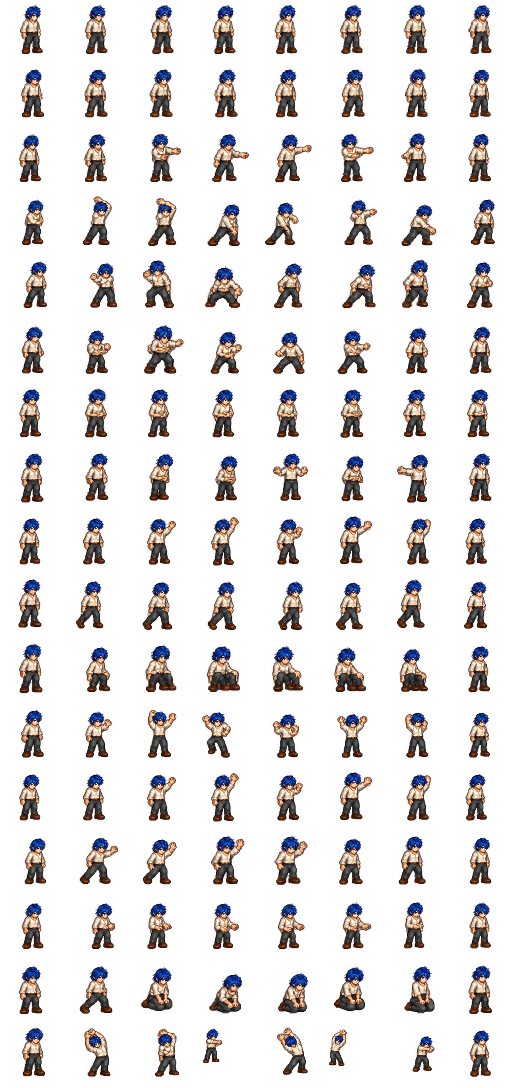
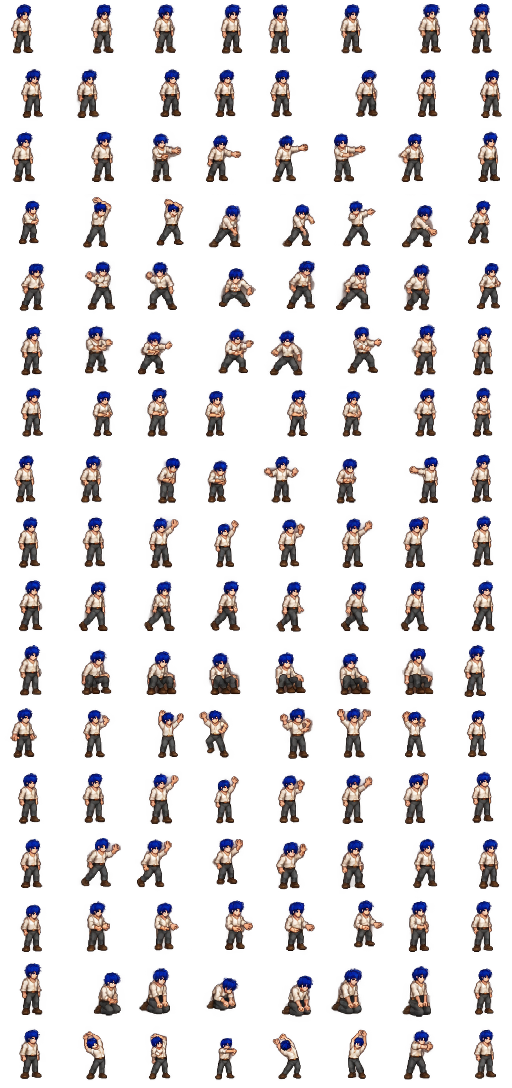
fix: align Migurd sprites with shared wardrobe

diff --git a/six-faced-life/scripts/prepare-pixel-wardrobe.py b/six-faced-life/scripts/prepare-pixel-wardrobe.py
@@ -5,6 +5,7 @@ No new artwork is drawn. Original sources are retained unchanged.
 """
 import argparse
 import json
+from io import BytesIO
 from pathlib import Path
 from PIL import Image
 
@@ -55,14 +56,13 @@ cells = registration(base)
 # Source omitted social: reuse greeting.
 row_map = [0, 1, 2, 3, 4, 5, 6, 7, 11, 8, 9, 10, 11, 12, 13, 14, 15]
 
-def export(source, height, own_registration=False):
+def export(source, height):
     source = source.convert('RGBA')
     if source.size != base.size:
         source = source.resize(base.size, Image.Resampling.NEAREST)
-    frame_cells = registration(source) if own_registration else cells
     sheet = Image.new('RGBA', (512, 1088))
     for target_row, source_row in enumerate(row_map):
-        for col, (box, foot_x, foot_y, pose_height) in enumerate(frame_cells[source_row]):
+        for col, (box, foot_x, foot_y, pose_height) in enumerate(cells[source_row]):
             # Raised hands must fit above the common foot anchor. Garments use
             # exactly the same reference-derived scale as their underlying body.
             scale = min(height / 83, 54 / pose_height)
@@ -78,7 +78,13 @@ manifest = json.loads(manifest_path.read_text(encoding='utf-8'))
 def save(key, image):
     target = root / f'{key}.png'
     target.parent.mkdir(parents=True, exist_ok=True)
-    image.save(target, optimize=True)
+    buffer = BytesIO()
+    image.save(buffer, format='PNG', optimize=True)
+    encoded = buffer.getvalue()
+    if not target.exists() or target.read_bytes() != encoded:
+        temporary = target.with_suffix('.tmp.png')
+        temporary.write_bytes(encoded)
+        temporary.replace(target)
     manifest['assets'][key] = dict(url=f'/assets/pixel-life/{key}.png', width=image.width, height=image.height, alpha=True, bytes=target.stat().st_size)
 
 outfits = {'guard': args.source / 'guard.png'}
@@ -86,12 +92,13 @@ outfits.update({p.stem.removeprefix('outfit-'): p for p in args.source.glob('out
 for stage, height in [('child', 34), ('teen', 42), ('adult', 48), ('elder', 44)]:
     for race in ('human','elf','beastfolk','migurd','dwarf','superd'):
         source_stage = 'elder' if stage == 'elder' else 'adult'
-        path = args.source / f'body-{race}-{source_stage}.png'
+        filename = 'body-migurd-adult-v2.png' if race == 'migurd' and source_stage == 'adult' else f'body-{race}-{source_stage}.png'
+        path = args.source / filename
         if race == 'human' and source_stage == 'adult':
             source = base
         else:
             source = Image.open(path)
-        save(f'bodies/{race}-{stage}', export(source, height, own_registration=(race == 'migurd' and source_stage == 'adult')))
+        save(f'bodies/{race}-{stage}', export(source, height))
     for outfit, path in outfits.items():
         with Image.open(path) as source:
             save(f'outfits/{stage}-{outfit}', export(source, height))

diff --git a/six-faced-life/scripts/test_pixel_registration.py b/six-faced-life/scripts/test_pixel_registration.py
@@ -4,6 +4,18 @@ from pathlib import Path
 from PIL import Image
 
 class RegistrationTest(unittest.TestCase):
+    def test_migurd_magic_clothes_cover_the_same_torso_as_reference(self):
+        root = Path(__file__).resolve().parent.parent / 'public/assets/pixel-life'
+        outfit = Image.open(root / 'outfits/adult-magic-training.png')
+        exposed = []
+        for race in ['human', 'migurd']:
+            actor = Image.alpha_composite(Image.open(root / f'bodies/{race}-adult.png'), outfit)
+            frame = actor.crop((448, 128, 512, 192))
+            exposed.append(sum(1 for y in range(24, 43) for x in range(20, 42)
+                               if (lambda c: c[3] > 128 and c[0] > 160 and c[1] > 130 and c[2] > 100)(frame.getpixel((x, y)))))
+        self.assertLessEqual(exposed[1], exposed[0] + 15,
+                             'Migurd torso escapes the shared training garment')
+
     def test_raised_pose_keeps_head_inside_cell(self):
         root = Path(__file__).resolve().parent.parent
         mask = Image.open(root / 'public/assets/pixel-life/bodies/human-adult.png').getchannel('A')

diff --git a/CONTINUE.md b/CONTINUE.md
@@ -1,111 +1,80 @@
 # Save point — Six-Faced Life
 
-## Pixel life scene — paused at user's request, 2026-11-03 17:23 Asia/Bangkok
+## Pixel life scene — implemented for human review, 2026-11-04 19:06 Bangkok
 
-User said **"prepare to stop"**. Implementation has stopped; only checkpoint
-commit/push/PR delivery follows. Resume the existing **`codex/pixel-life-scene`**
-branch and **draft [PR #19](https://github.com/ny147/1-in-mushoku-tensei/pull/19)**,
-base **main**. Last prior checkpoint: **`5b94fc4`**. Do not create another branch
-or PR, merge, rebase, auto-merge, delete the branch or publish. ADHD-friendly
-output remains enabled. Native execution was selected; do not restart discovery.
+User resumed from **`ba145ad`** on existing **`codex/pixel-life-scene`**.
+Implementation and acceptance are complete; final commit/push updates existing
+**[PR #19](https://github.com/ny147/1-in-mushoku-tensei/pull/19)**, base **main**.
+User merges manually. Do not merge, auto-merge, delete the branch or publish.
+ADHD-friendly output remains enabled. Native execution selected; independent
+whole-branch review already completed on Nov3, no Critical/Important code issue.
 
 Spec: `docs/superpowers/specs/2026-11-02-pixel-life-scene-design.md`.
 Plan/ledger: `docs/superpowers/plans/2026-11-02-pixel-life-scene.md`.
 
-**Implemented, still draft:** read-only scene facts/model, bounded reactions,
-179 original raster assets, layer selector, renderer/fallback/visibility lifecycle,
-session motion toggle, EN/TH labels, App chronicle and still active-ending slots.
-No simulation, save-schema or RNG changes. Player **5173 storage untouched**.
+**Built:** visual-only scene follows actual region, race, five age stages, primary
+career, focus and selected discipline's earned capped rank. Bounded reactions,
+loading/failure painted fallback, EN/TH descriptions, session motion toggle,
+visibility/media cleanup, chronicle replacement and still active-ending slot.
+Archive previews have no live scene. Simulation/saves/RNG unchanged. Player
+**127.0.0.1:5173 storage untouched**; all disposable QA used5174.
 
-**This session:** added reduced-motion/media cleanup, hidden-tab timer/listener
-cleanup, genuinely queued stale-image callbacks, visibility observer cleanup and
-live-ending/archive App coverage. Recovered exact authoring inputs from this
-chat into `docs/superpowers/specs/assets/2026-11-02-pixel-life-prompts.md` and
-source filename/size/SHA-256 inventory beside it. Updated ASSETS/PRODUCT/README,
-DESIGN and its sidecar for actual built behavior; retain existing art/licenses.
+**Final Migurd correction:** the original source drifted in pose geometry, so
+mechanically recentering it still left clothes behind. A new ImageGen edit of
+`human-adult-draft.png`, changing hair to blue while preserving poses, is retained
+as ignored `sources/body-migurd-adult-v2.png`. The exporter requires this accepted
+source for child/teen/adult and shares clothing's reference geometry. Original
+rejected source remains intact. A reproduced torso-leak test went RED→GREEN;
+neighbor-row and raised-pose regression checks still pass. Exporter skips
+unchanged images and atomically replaces changed PNGs to avoid observed Windows
+write contention. No new runtime dependency or new manifest category.
 
-**Artwork correction in progress:** all-pose inspection found youthful Migurd
-source rows drifted from the shared human reference, leaking neighboring blue
-heads into later clips. Added source-specific slicing/foot registration for that
-source and capped tall-pose scaling to fit above the shared foot anchor. Two
-Pillow regression tests were observed RED then GREEN. Updated bodies, wardrobe
-and manifest are saved, but **do not call final artwork accepted**: the new
-`fits-migurd.png` contact sheet shows some frames (especially 7 in farmer/magic
-and crouched sword) with body and clothing shifted apart. Body registration now
-uses its own geometry while garments still use the human reference; race-fit
-registration or authored variants must reconcile those anchors. All affected
-Migurd child/teen/adult clips need fit review. Rank overlays must also be
-rechecked after the tall-pose scale adjustment. No further fix was made after
-the stop request. Retain raw sources; don't blindly rerun details/backgrounds.
+**Verification after final export:**
+- Full `npm.cmd test -- --maxWorkers=2`: **372/372 tests,59 files**,82.71s.
+- `npm.cmd run build`: PASS, existing >500kB JS advisory (740.39kB output).
+- `python scripts/test_pixel_registration.py`: **3/3**, all defects observed
+  failing before their fixes. Python/Pillow is authoring-only, not a build need.
+- Actual current PNG metadata/byte and full scene-enum/rank matrix are included
+  in the full suite. Runtime179 PNGs **41,749,648 bytes**; conservative per-scene
+  upper bound **1,720,121 bytes**, max7 layers/six potentially moving.
+- Inspected all17 corrected clips at frames0/3/7 for child/farmer, teen/sword and
+  adult/magic with max gear. Prior all-race/stage/career/rank/effect contacts stand.
+  The previous Migurd torso leakage/neighbor-row fragments are resolved in these
+  contacts. Exact new ImageGen prompt and source hash are committed with prior
+  production provenance. ASSETS/product/design/readme/sidecar describe built use.
 
-Runtime art now **41,874,507 bytes / 179 PNGs**. Conservative per-scene upper
-bound across categories **1,720,121 bytes**, max seven layers (six moving).
-Optional mechanical scripts require retained source PNGs and Pillow 11.3.0;
-the user explicitly approved resize/trim/slice processing. Normal builds need
-neither Python nor original sources.
+**Browser QA evidence:** Nov3 EN850/1280/1700 +TH360/850/1700, no overflow; live
+ending still/archive excluded; phone pending scene hidden/stopped; Space motion
+button keeps focus/time paused; all four speeds retain1s sprite timing; offscreen
+suspension/reload; empty console errors. Nov4 corrected adult magic/max gear and
+child North God/Thai360 rechecked; ready=true, no overflow, empty console errors.
+Reduced-motion/hidden subscriptions and failed/stale loads tested automatically,
+not claimed as browser OS/network-emulation checks. Current preview is paused.
 
-**Checks actually run:**
-- Full integrated `npm.cmd test -- --maxWorkers=2`: **372/372 tests in 59 files**,
-  91.46s. This was before the later mechanical art corrections; application code
-  is unchanged since, except removing an invalid test query option.
-- `npm.cmd run build` passed after that test-query TypeScript correction;
-  existing >500kB JS advisory (740.39kB output) remains. No final post-art build.
-- Post-art focused App/scene/asset run: **43/43 in six files**, 6.73s, including
-  current actual PNG metadata/bytes and full enum/rank matrix.
-- `python scripts/test_pixel_registration.py`: **2/2**, both observed RED→GREEN.
-- Earlier expanded lifecycle run: **20/20**; queued stale callbacks and fallback
-  tests pass. Sandbox tests/build use authorized escalation for esbuild spawn.
-- Final diff/check/index inspection is part of this checkpoint delivery; see
-  commit/PR for final result. Do not invent a later full-suite or visual result.
+**Deferred minor limitations from independent review:**
+1. Allocating carried expanded legacy sword XP into a style can trigger a cosmetic
+   promotion celebration despite no new rank (`model.ts`/`reactions.ts`).
+2. Without IntersectionObserver, CSS pending phone visibility is resampled only
+   on scroll/resize; fallback motion may remain stale (`PixelLifeScene.tsx`).
+These do not change gameplay/saves. No unresolved Critical/Important code issue.
+Reviewer set art/browser/docs aside to parent; parent acceptance is now complete,
+with exact evidence/limits above. Do not expand scope by silently fixing minors.
 
-**Browser 5174 only:** EN 850/1280/1700 and TH 360/850/1700 inspected; no overflow
-on sampled layouts. Thai live death went straight to ending with all layers
-`animation-name:none`; archive list and opened preview contained zero pixel
-scenes. Pending EN phone scene was `display:none` and all loaded layers stopped.
-Space on Scene motion toggled only motion, kept focus on its button and left
-time paused. All four speeds retained 1s body/outfit/rank loops; Pause→idle.
-Offscreen footer scroll stopped every layer; console error list was empty.
-Reload kept selected life/gear, idle and no reaction replay. Device reduced
-motion changes/hidden-tab behavior tested through subscriptions, not browser OS
-settings. Slow/failed asset delivery is covered in component tests, not real
-network throttling. Contact sheets inspected all six race stages in neutral,
-farmer and training outfits with frames 0/3/7, all career outfits adult/teen,
-all rank families/stages and eight effect strips. Those checks exposed the
-remaining Migurd fit issue above; they do not certify every pose/garment pair.
+**Delivery:** final task commit is after `ba145ad` in Git history /PR head. Fresh
+fetch on Nov4 confirms `origin/main 53f8fb7` is contained. Final diff/index/clean
+status and remote-head checks are recorded in the delivery response/PR. If user
+asks to resume, inspect actual Git/usage before more work; don't repeat completed
+model/renderer/artwork generation. Next action is human review of PR19.
 
-**Independent whole-branch code review completed** by `pixel_final_review`:
-no Critical/Important code defect. Two Minor findings are deferred:
-1. Allocating carried expanded legacy sword XP into a selected style triggers a
-   false promotion celebration (`model.ts` / `reactions.ts`); no progress changes.
-2. Without IntersectionObserver, pending-phone CSS visibility changes are not
-   resampled until scroll/resize (`PixelLifeScene.tsx`); can leave stillness or
-   hidden animation stale on that fallback path.
-Reviewer declined artwork/remaining browser acceptance/docs under parent work;
-these remain the parent's responsibility, not automatically accepted. No second
-review required by Native; fix Important issues test-first if further discovered.
+**Preserved local environment:** isolated Vite5174, exec session40828; browser2,
+tab5, paused Thai Migurd child/North God. Viewport reset; marked deliverable.
+Screenshot: `.sites-workflow/pixel-life/final-migurd-preview.jpg` (ignored).
+Sources/QA fixture/logs/contact sheets under `.sites-workflow/pixel-life/` must
+remain. New contact: `migurd-v2-all-poses.png`. Do not delete these originals or
+scratch art merely to clean a plan workspace. Port5173 save remains protected.
 
-**Exact next steps after user resumes:**
-1. Recheck usage/status/fetch, read this section and plan ledger. Preserve this
-   task branch and sources. Do not repeat completed model/reaction work.
-2. Inspect `.sites-workflow/pixel-life/fits-migurd.png`, then fix per-race body /
-   garment registration. Start with failing fit/regression evidence; compare
-   frames 0/3/7 and every clip, including rank overlays after scale changes.
-3. Rerun current asset/Pillow checks and build after art fix; finish acceptance,
-   update byte counts if changed, and run the full suite before ready delivery.
-   Keep PR draft until required visual acceptance passes. User merges manually.
-
-Paused QA: Vite **5174**, exec session **24563**; browser **2**, tab **4**, current
-URL http://127.0.0.1:5174/, paused Thai Migurd/Water God, viewport override reset,
-marked handoff. Some previous tabs became stale; current tab 4 worked. Use Cua
-refresh/documentation on resume; don't touch player 5173. Local screenshot:
-`six-faced-life/.sites-workflow/pixel-life/final-preview.jpg`.
-All sources, QA fixture (with alive/near-ending/ended selector), logs and contact
-sheets remain ignored under `.sites-workflow/pixel-life/`. Preserve them.
-
-Usage observed **2026-11-03 17:23 Bangkok**: five-hour **15% remaining**, weekly
-**76% remaining**; resets **Nov 3 21:58:50** / **Nov 9 09:20:55** Bangkok. No billing
-or reset-credit action. Final escalated fetch succeeded: latest `origin/main`
-**53f8fb7** is an ancestor of the task. Final commit/push/PR SHA follows in Git/PR.
+Usage observed **Nov4 19:06 Bangkok**: **71% five-hour /55% weekly remaining**;
+resets **Nov4 19:14 /Nov9 09:20** Bangkok. No credit/reset/billing action.
 
 ## Swordsmanship styles — implemented, 2026-10-29
 

diff --git a/docs/superpowers/plans/2026-11-02-pixel-life-scene.md b/docs/superpowers/plans/2026-11-02-pixel-life-scene.md
@@ -207,10 +207,10 @@ Concept art generation must preserve these frame/anchor invariants. Inspect gene
 - [x] User selected Native execution ("1"). Implementation proceeds on the existing task branch.
 - [x] Task 1: read-only model, nine tests including race/age gates, capped selected tracks, frozen saves and legacy handling. Infant ending precedence reproduced RED then corrected GREEN.
 - [x] Task 2: pure reaction detection/reduction, three tests covering initial loads, selection changes, priority, burst bounds, choice deferral and deadlines.
-- [x] Tasks 3–5 implementation: 179 exported PNGs and runtime selector; real-file metadata and enum/rank matrix checks pass. Full-pose visual acceptance and provenance documentation still need final QA.
-- [ ] Task 6 acceptance incomplete: renderer, lifecycle hook and EN/TH descriptions exist and six initial tests pass; expand reduced-motion/hidden-tab/cleanup coverage.
-- [ ] Task 7 acceptance incomplete: App/chronicle/active-ending slots exist; focused App/language/scene checks pass 50/50. Complete pending-phone, ending/archive and keyboard/browser checks.
-- [ ] Task 8 not complete: current full suite, complete browser acceptance, built docs/provenance, fresh whole-branch review and ready-for-review delivery remain.
+- [x] Tasks 3–5: 179 exported PNGs, runtime selector, matrix/budget checks, provenance and inspected frame/fit contacts. Migurd source replaced with registered variant on Nov 4.
+- [x] Task 6: renderer, EN/TH descriptions, queued-load fallback guards, reduced-media/hidden timers and cleanup checks pass.
+- [x] Task 7: App/chronicle/still-ending integration, archive exclusion, phone hiding and keyboard/browser acceptance verified.
+- [x] Task 8: full suite 372/372, build, 3 Pillow checks and final corrected art/browser inspection pass. Independent whole-branch review found no Critical/Important code issue; two Minor findings deferred. Existing PR prepared for human review.
 
 **Paused at user request, 2026-11-02 22:29 Asia/Bangkok.** Resume from CONTINUE.md.
 Last prior task commits: model `3e22968`, reactions `438fe7f`. The checkpoint
@@ -280,3 +280,44 @@ User requested stop; save and stop after delivery. Continue existing branch/PR19
 - Usage: 15% five-hour /76% weekly remaining; resets Nov3 21:58:50 / Nov9 09:20:55
   Bangkok. Exact resume actions and environment are in CONTINUE.md. Do not
   regenerate retained art or repeat completed Tasks1/2. Do not publish or merge.
+
+
+### Final acceptance — 2026-11-04 19:06 Bangkok
+
+- Resumed clean `codex/pixel-life-scene` from `ba145ad`; fetched origin. Latest
+  `origin/main 53f8fb7` remains an ancestor; no upstream integration needed.
+- Reproduced remaining Migurd torso/garment leak with a new Pillow coverage test
+  (122 bright exposed pixels versus allowed 73 after attempted normalization).
+  Rejected the old source; ImageGen authored `body-migurd-adult-v2.png` as a
+  tightly registered hair-only edit of the original human atlas. Export all
+  three youthful stages using common reference cells/feet/scales. Test GREEN.
+  Prior two regression tests also remain GREEN; source and exact prompt/hash
+  retained. Original source was preserved, not overwritten.
+- Ruling: replace the drifting Migurd variant with a newly authored registered
+  source rather than keeping source-specific body coordinates — shared clothes
+  require identical pose geometry — risk if wrong: renewed clothing misalignment,
+  covered by the new torso regression and inspected 17-clip 0/3/7 contact sheet.
+- Exporter skips byte-identical PNGs and atomically replaces changed outputs;
+  this resolved the observed Windows open-for-write failure on unchanged art.
+- Art acceptance: inspected all 17 corrected clips at frames 0/3/7 for child
+  farmer, teen sword and adult magic/max rank; prior all-race/stage/career/rank/
+  effect reviews stand. No exposed separate torso/neighboring head remains in
+  those contacts. Current browser verifies adult magic and child North God,
+  Thai mobile360, desktop1280, loaded ready=true, no overflow/console errors.
+- **Fresh final automated result:** `npm.cmd test -- --maxWorkers=2` → **372/372
+  in 59 files**, 82.71s; `npm.cmd run build` → PASS (existing >500kB advisory);
+  `python scripts/test_pixel_registration.py` → **3/3**. All after final export.
+- Final: Ruling: parent's art/browser/docs acceptance, set aside by reviewer,
+  is now satisfied by recorded contacts/flows and fresh checks — close that
+  temporary draft gate — risk if wrong: unobserved combinations could have visual
+  polish defects; metadata matrix covers file existence/budget, not aesthetics.
+- Final code review from Nov3 stands; no application runtime code changed in
+  this resumption. Two Minor findings remain deferred as recorded above, not
+  merge blockers. No re-review dispatched under Native's single-review workflow.
+- Authoring drafts, original source PNGs and ignored QA contacts are deliberately
+  retained per the user's preservation instructions; do not delete this workspace.
+- Runtime total **41,749,648 bytes /179 PNGs**, conservative scene bound unchanged
+  **1,720,121 bytes**, at most7 layers/six moving. Asset/docs values updated.
+- Usage at19:06 Bangkok: **71% five-hour /55% weekly remaining**, resets Nov4
+  19:14 /Nov9 09:20. No credit/billing/reset actions. Ready delivery uses existing
+  PR19, base main; user merges manually. No merge, auto-merge or publication.

diff --git a/six-faced-life/ASSETS.md b/six-faced-life/ASSETS.md
@@ -6,7 +6,7 @@ Original detailed fantasy pixel artwork generated with the built-in ImageGen too
 on 2026-11-02, following the user's selected lower panel B. No franchise sprites
 were downloaded. All 179 runtime PNGs are under `public/assets/pixel-life/`;
 `src/components/life-scene/assets.json` records every path, dimension, alpha flag
-and compressed byte size. Current total: **41,874,507 bytes**.
+and compressed byte size. Current total: **41,749,648 bytes**.
 
 | Category | Files | Dimensions |
 | --- | ---: | --- |
@@ -34,17 +34,21 @@ art as part of the normal build. The exported assets are committed directly.
 Mechanical registration uses 64×64 hero cells, eight columns and 17 clips, with
 foot anchor (32,56). The 16-row original pose sheet shares greeting/social.
 Child/teen bodies use size variants; elders have separately generated aged
-features; infants have their own six-race sheet. Migurd youthful sources use
-their own inspected row/foot geometry. Tall raised poses scale to fit the cell;
+features; infants have their own six-race sheet. The corrected Migurd youthful source is a registered blue-hair edit of the
+human pose sheet and uses the same reference geometry as its clothing. The
+rejected original is retained locally but no longer exported. Tall raised poses scale to fit the cell;
 wardrobe uses the same reference scale. `python scripts/test_pixel_registration.py`
-checks the reproduced neighboring-row and raised-pose clipping regressions.
+checks the reproduced neighboring-row leakage, raised-pose clipping and
+Migurd torso/garment coverage regressions (3/3 passing).
 
 A conservative upper bound across all categories is **1,720,121 compressed bytes**
 for a scene, counting the shared ambient atlas once. There are at most seven
 raster layers, six potentially moving. Other regions/characters are selected
 lazily. Actual file coverage and metadata checks run in `tests/pixel-assets.test.ts`.
-Visual acceptance status and any remaining limitations live in CONTINUE.md and
-the active implementation plan; metadata tests alone do not prove artwork fit.
+Frame/fit contact sheets and browser samples were inspected, including the
+registered Migurd replacement on 2026-11-04. CONTINUE.md and the implementation
+plan record the completed checks and two deferred minor controller limitations;
+metadata tests alone do not prove artwork fit.
 
 ## Original landscape
 

diff --git a/docs/superpowers/specs/assets/2026-11-02-pixel-life-prompts.md b/docs/superpowers/specs/assets/2026-11-02-pixel-life-prompts.md
@@ -1,5 +1,17 @@
 # Pixel scene artwork generation record
 
+## Migurd registered replacement — 2026-11-04
+
+The original Migurd adult sheet was rejected after pose/garment fit review.
+Built-in ImageGen edited `human-adult-draft.png`; accepted output is retained
+locally as `body-migurd-adult-v2.png`. Transparency was requested. The original
+source remains retained for provenance but is no longer exported. The replacement
+uses the common human reference grid and drives the child/teen/adult derivatives.
+
+Exact replacement prompt:
+
+> Edit the provided production sprite atlas with ONE minimal localized change: recolor ONLY the existing character's brown hair to vivid deep blue hair (Migurd fantasy race). Preserve every other pixel/shape/pose/position, especially all ivory shirt, skin, torso, legs, feet, hands, face and facial proportions. This is a registered color variant of the exact atlas, not a redesign. Do not re-pose, change perspective, move or resize any figure. Preserve original 860x1828 canvas and actual 8 columns by 16 rows, original uneven row spacing, exact cell coordinates and transparent alpha. Keep the original small-pixel art and original hair silhouettes; blue highlights/navy shadows may replace brown hair shades only. All 128 figures must remain in their exact source positions. No new facial features, clothes, props, text, grid lines or background. The entire atlas must overlay exactly on the reference; original clothing layers must continue to fit. Output actual transparency.
+
 Generated with built-in ImageGen on 2026-11-02. These are the original authoring call inputs recovered from this chat, including prompt templates and every variant substitution. Code blocks are provenance, not build scripts. Local reference paths identify generated source sheets; they are not distributed dependencies.
 
 ## Authoring batch 1

diff --git a/docs/superpowers/specs/2026-11-02-pixel-life-scene-design.md b/docs/superpowers/specs/2026-11-02-pixel-life-scene-design.md
@@ -1,10 +1,9 @@
 # Pixel life scene
 
-Status: **approved for planning on 2026-11-02**, through the user's request
-"create implement plan from this". Native implementation is in progress, paused
-again at the user's request on 2026-11-03. Code review and tests passed; final
-artwork alignment/acceptance remains. See CONTINUE.md. Task branch:
-`codex/pixel-life-scene`, targeting `main`.
+Status: **implemented and verified for human review, 2026-11-04**. Native
+execution on `codex/pixel-life-scene`, targeting `main`, existing PR #19.
+Full tests/build and artwork corrections pass; two minor controller limitations
+are recorded in CONTINUE.md and the implementation ledger. No merge or publish.
 
 ## Intent
 

diff --git a/docs/superpowers/specs/assets/2026-11-02-pixel-life-sources.md b/docs/superpowers/specs/assets/2026-11-02-pixel-life-sources.md
@@ -49,3 +49,6 @@ Original ImageGen source PNGs retained locally in ignored `six-faced-life/.sites
[4 lines of base64/hex data omitted]
+
+`body-migurd-adult-v2.png` replaces the rejected original Migurd adult source for export on 2026-11-04. Original is retained unchanged.
